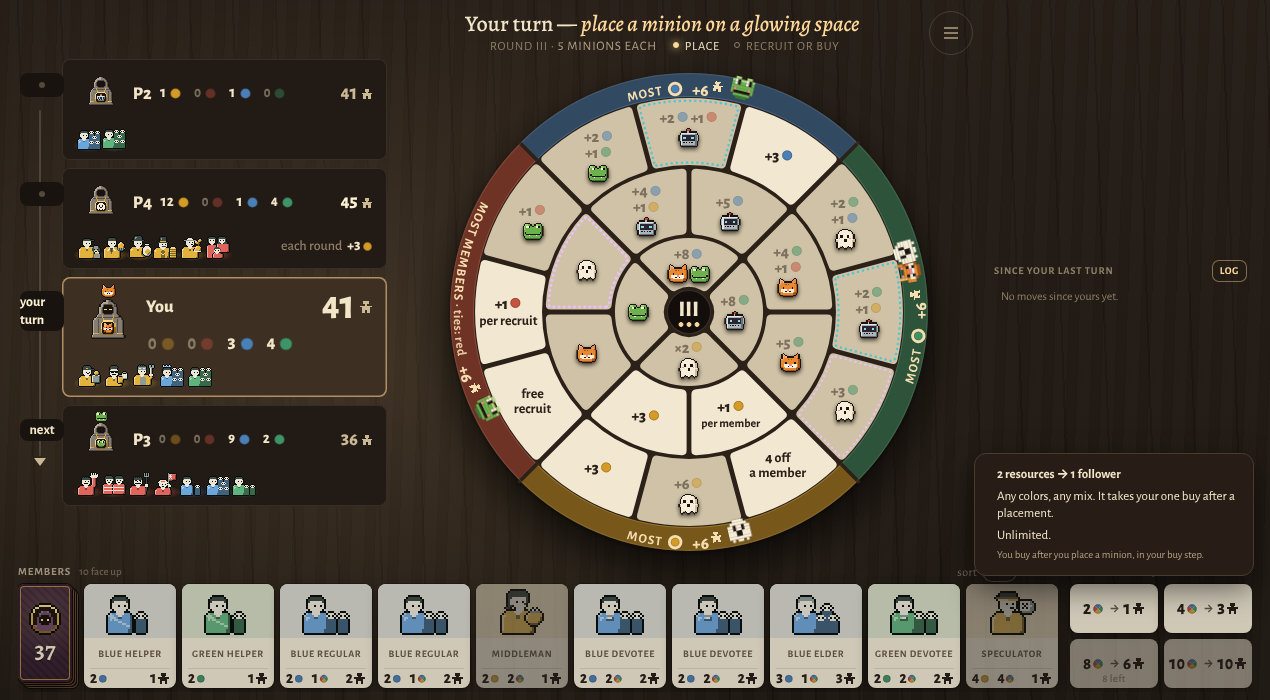
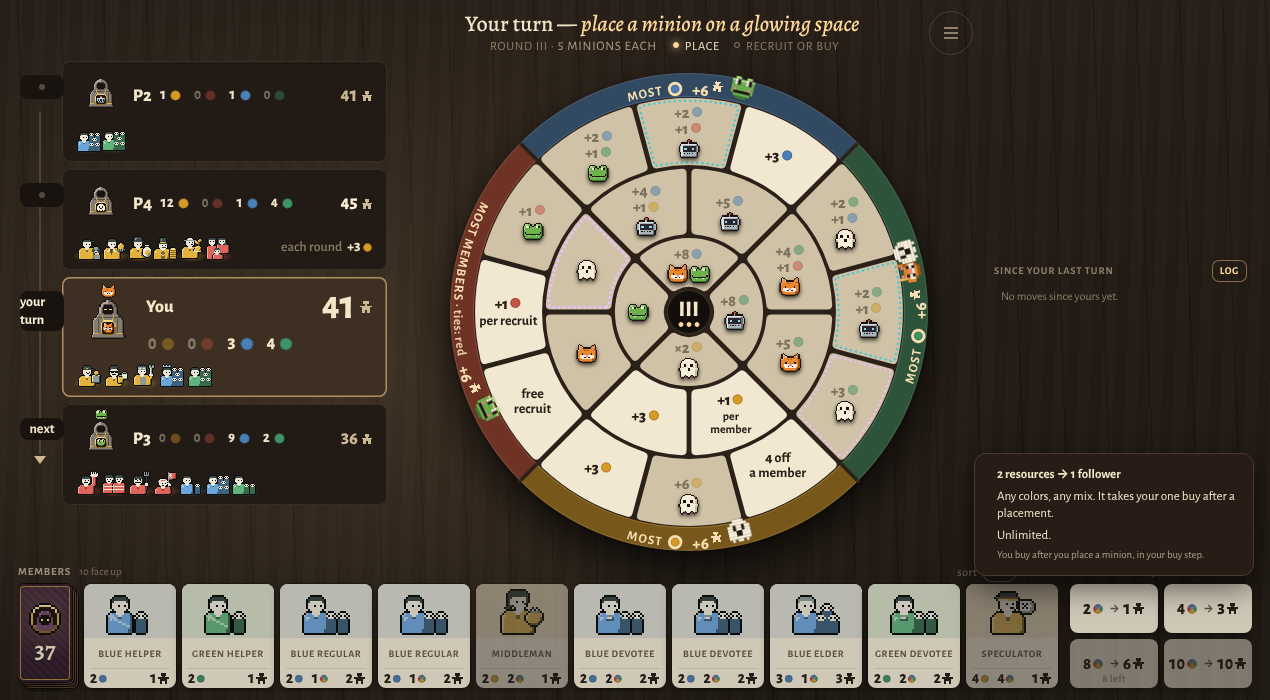
WIP checkpoint: overnight agents in progress
Claude-Session: https://claude.ai/code/session_017rw3aQa9iJEjdvvwQLY84z

diff --git a/src/v4/game/Wheel.jsx b/src/v4/game/Wheel.jsx
@@ -208,13 +208,15 @@ function saidEm(text, weight = 700) {
   }
   return w;
 }
-// the three lines, in screen pixels: the gain (at least 16), the effect in words, the quiet clarification
-const PANEL_PX = { main: 18, mainMin: 16, second: 14, secondLine: 15, note: 12, noteLine: 13, minion: 21, gap: 2 };
+// the three lines, in screen pixels: line 1 (a gain's number at least 16; a verb may step down to 14), line 2, line 3
+const PANEL_PX = { main: 18, mainMin: 16, verbMin: 14, second: 14, small: 12, note: 12, minion: 21, gap: 2 };
+const lineH = px => px + 1;
 /**
- * How a panel's lines lay out in the room it has where it sits now: the gain on one line or a clause a line, the
- * effect on one or two lines, the clarification on one, or not at all (both are always in the hover). Returns
- * { mainLines, main (px), secondLines, noteLines, w (board units: the box's width), rc (where it's centred) }.
- * `k` is screen pixels per board unit; `taken`: the minion stands in for the lines under the gain.
+ * How a panel's lines lay out in the room it has where it sits now. Line 1 (the gain, or the verb) and line 2 always
+ * show: line 1 on one line or two, line 2 on up to three lines (four at the small size), each stepping a size down
+ * before it wraps further; line 3 only with room (it's in the hover anyway). Returns { one, oneLines, two, twoLines,
+ * noteLines, w (board units: the box's width), rc (where it's centred) }. `k`: screen pixels per board unit. `taken`:
+ * the minion stands under line 1, in place of the lines below it.
  */
 function panelLayout({ s, R, rot, k, said, taken, need = {} }) {
   const a0 = s.ang - s.half + rot, a1 = s.ang + s.half + rot;
@@ -231,33 +233,32 @@ function panelLayout({ s, R, rot, k, said, taken, need = {} }) {
     return best;
   };
   const X = PANEL_PX;
-  const main = said.main, second = taken ? null : said.second, note = taken ? null : lineText(said.note) || null;
-  const mainClauses = main ? clauses(main) : [];
-  const mainEm = main ? saidEm(main, 800) : 0, clauseEm = main ? Math.max(...mainClauses.map(c => saidEm(c, 800))) : 0;
-  const words = t => Math.max(...String(t).split(/\s+/).map(x => saidEm(x, 700)));
-  const secondEm = second ? saidEm(second, 700) : 0, noteEm = note ? saidEm(note, 500) : 0;
-  // the gain and the effect always show (the effect may wrap to three lines); the clarification only with room
+  const one = said.main || said.verb, isGain = !!said.main;
+  const two = taken ? null : said.second, note = taken ? null : lineText(said.note) || null;
+  const words = t => Math.max(...String(t).split(/\s+/).map(x => saidEm(x, 800)));
+  const oneClauses = isGain ? clauses(one) : null;
+  const oneEm = one ? saidEm(one, 800) : 0, twoEm = two ? saidEm(two, 700) : 0, noteEm = note ? saidEm(note, 500) : 0;
+  // how wide a line set on n lines needs to be: a gain breaks between clauses, words wrap between words
+  const needOne = (px, n) => (!one ? 0 : n === 1 ? oneEm * px : isGain ? Math.max(...oneClauses.map(c => saidEm(c, 800))) * px : Math.max(words(one), (oneEm / n) * 1.15) * px);
+  const needTwo = (px, n) => (!two ? 0 : n === 1 ? twoEm * px : Math.max(words(two) * (700 / 800), (twoEm / n) * 1.15) * px);
+  const oneSizes = !one ? [0] : isGain ? [X.main, X.mainMin] : [X.main, X.mainMin, X.verbMin];
+  const oneLines = !one ? [0] : isGain ? (oneClauses.length > 1 ? [1, 2] : [1]) : [1, 2];
   const tries = [];
-  for (const mp of main ? [X.main, X.mainMin] : [0]) for (const ml of mainClauses.length > 1 ? [1, 2] : main ? [1] : [0])
-    for (const sp of second ? [X.second, X.note] : [0]) for (const sl of second ? [1, 2, 3] : [0]) for (const nl of note && !need.noNote ? [1, 0] : [0]) tries.push({ mp, ml, sp, sl, nl });
-  // prefer the bigger gain, then the effect on at most two lines, at its own size, then the clarification shown
-  tries.sort((x, y) => y.mp - x.mp || (y.sl <= 2) - (x.sl <= 2) || y.sp - x.sp || (y.nl > 0) - (x.nl > 0) || x.ml - y.ml || x.sl - y.sl);
+  for (const op of oneSizes) for (const ol of oneLines) for (const tp of two ? [X.second, X.small] : [0])
+    for (const tl of two ? (tp === X.small ? [1, 2, 3, 4] : [1, 2, 3]) : [0]) for (const nl of note && !need.noNote ? [1, 0] : [0]) tries.push({ op, ol, tp, tl, nl });
+  // prefer: line 1 bigger and whole, line 2 on at most two lines at its own size, then line 3 shown, then fewer lines
+  tries.sort((x, y) => y.op - x.op || (y.tl <= 2) - (x.tl <= 2) || y.tp - x.tp || x.ol - y.ol || (y.nl > 0) - (x.nl > 0) || x.tl - y.tl);
   for (const t of tries) {
-    const parts = [t.ml * t.mp, taken ? X.minion : 0, t.sl * (t.sp === X.second ? X.secondLine : X.noteLine), t.nl * X.noteLine].filter(Boolean);
-    const h = parts.reduce((a, b) => a + b, 0) + X.gap * (parts.length - 1);
-    const needW = Math.max(
-      t.ml ? (t.ml === 1 ? mainEm : clauseEm) * t.mp : 0,
-      t.sl ? Math.max(words(second), (secondEm / t.sl) * 1.12) * t.sp : 0,
-      t.nl ? noteEm * X.note : 0,
-      taken ? 24 : 0,
-    );
+    const parts = [t.ol * lineH(t.op), taken ? X.minion : 0, t.tl * lineH(t.tp), t.nl * lineH(X.note)].filter(Boolean);
+    const h = parts.reduce((x, y) => x + y, 0) + X.gap * (parts.length - 1);
+    const needW = Math.max(needOne(t.op, t.ol), needTwo(t.tp, t.tl), t.nl ? noteEm * X.note : 0, taken ? 24 : 0);
     const w = room(h) * k;
-    if (w >= needW + 4) return { mainLines: t.ml, main: t.mp, secondLines: t.sl, second: t.sp, noteLines: t.nl, w: w / k, rc };
+    if (w >= needW + 4) return { one: t.op, oneLines: t.ol, two: t.tp, twoLines: t.tl, noteLines: t.nl, w: w / k, rc };
   }
-  // nothing fits: everything at its smallest, a clause a line (the clarification is in the hover)
-  const ml = mainClauses.length > 1 ? 2 : main ? 1 : 0, sl = second ? 3 : 0;
-  const w = room(ml * X.mainMin + (taken ? X.minion : sl * X.noteLine) + X.gap);
-  return { mainLines: ml, main: X.mainMin, secondLines: sl, second: X.note, noteLines: 0, w: Math.max(w, 24 / k), rc: w ? rc : R.r, tight: true };
+  // nothing fits (never seen on a 1270×700 table): everything at its smallest; the hover has it all
+  const ol = one ? 2 : 0, tl = two ? 4 : 0;
+  const w = room(ol * lineH(X.verbMin) + (taken ? X.minion : tl * lineH(X.small)) + X.gap);
+  return { one: isGain ? X.mainMin : X.verbMin, oneLines: ol, two: X.small, twoLines: tl, noteLines: 0, w: Math.max(w, 24 / k), rc: w ? rc : R.r, tight: true };
 }
 
 // Is the person driving with the keyboard? Focus moved to a space on its own (your turn begins) opens its card only
@@ -822,9 +823,12 @@ function Wheel({ state, legal, pickNotes = null, onPick, onDenied, onTouched, co
       const f = first.get(s.key);
       out.set(s.key, { said: f.said, lay: !group[`${s.q}-${s.ring}`] && f.lay.noteLines ? lay(s, { noNote: true }) : f.lay });
     }
-    // every gain on the wheel is one size: the smallest any panel needs
-    const main = Math.min(...[...out.values()].filter(v => v.said.main).map(v => v.lay.main));
-    for (const v of out.values()) if (v.said.main) v.lay = { ...v.lay, main };
+    // every gain on the wheel is one size, and every verb: the smallest any panel needs
+    for (const kind of ['main', 'verb']) {
+      const all = [...out.values()].filter(v => v.said[kind]);
+      const px = Math.min(...all.map(v => v.lay.one));
+      for (const v of all) v.lay = { ...v.lay, one: px };
+    }
     return out;
   }, [panels, state.quadrants, state.slots, round, rot, scale]); // eslint-disable-line react-hooks/exhaustive-deps
   live.current = { tap, onPick, hover, anchorOf };
@@ -844,7 +848,7 @@ function Wheel({ state, legal, pickNotes = null, onPick, onDenied, onTouched, co
     // panels: the gain, the effect, the clarification, laid out in the room this panel has where it sits now
     const pl = panels ? panelLays.get(key) : null;
     const said = pl && pl.said, lay = pl && pl.lay;
-    const cls = ['slot', `r${t}`, opt ? 'can lit' : '', flash.has(key) ? 'flash' : '', selected ? 'sel' : '', open ? 'open' : 'locked', owner !== undefined ? 'taken' : '', fresh ? 'fresh' : '', fresh && fresh.newest ? 'newest' : '', lay && !said.main ? 'nomain' : '', lay && lay.secondLines > 1 ? 'wrap' : '', lay && lay.second === PANEL_PX.note ? 'small' : ''].filter(Boolean).join(' ');
+    const cls = ['slot', `r${t}`, opt ? 'can lit' : '', flash.has(key) ? 'flash' : '', selected ? 'sel' : '', open ? 'open' : 'locked', owner !== undefined ? 'taken' : '', fresh ? 'fresh' : '', fresh && fresh.newest ? 'newest' : '', lay && said.verb ? 'verb' : '', lay && lay.oneLines > 1 ? 'wrap1' : '', lay && lay.twoLines > 1 ? 'wrap' : '', lay && lay.two === PANEL_PX.small ? 'small' : ''].filter(Boolean).join(' ');
     const status = owner !== undefined ? `Taken by ${owner === meId ? 'you' : state.players[owner].name}${joiners.length ? ` and ${joiners.map(id => state.players[id].name).join(', ')}` : ''}${opt && String(opt).startsWith('squat:') ? ' (you can join it)' : ''}` : open ? (opt ? 'Open: you can take it' : 'Open') : `Opens in round ${roman(t)}`;
     const minion = id => (
       <span key={id} className="worker" data-seat={id}>
@@ -853,7 +857,7 @@ function Wheel({ state, legal, pickNotes = null, onPick, onDenied, onTouched, co
     );
     const minions = owner !== undefined ? <span className="worker-fig" data-seat={owner}>{[owner, ...joiners].map(minion)}</span> : null;
     let style = { ...at(X, Y), '--c': `var(--${qid})` };
-    if (panels) style = { ...style, ...at(...turned(...polar(s.ang, lay.rc))), width: `${((lay.w / VBS) * 100).toFixed(2)}%`, '--main': `${lay.main || PANEL_PX.main}px` };
+    if (panels) style = { ...style, ...at(...turned(...polar(s.ang, lay.rc))), width: `${((lay.w / VBS) * 100).toFixed(2)}%`, '--one': `${lay.one || PANEL_PX.main}px` };
     // a face from ./faces/: the box is the face's own size (board units), and the face draws everything inside it
     let face = null;
     if (custom) {
@@ -885,13 +889,13 @@ function Wheel({ state, legal, pickNotes = null, onPick, onDenied, onTouched, co
           // three lines at most, no picture (Cory, 2026-10-15): the gain, the effect in words, a quiet clarification.
           // Taken: the minion stands under the gain, in place of the lines below it
           <span className="face" aria-hidden="true">
-            {lay.mainLines > 0 && (
-              <span className="yl main" data-yield>
-                {lay.mainLines > 1 ? clauses(said.main).map((c, k) => <span key={k} className="cl"><Said text={c} /></span>) : <Said text={said.main} />}
+            {lay.oneLines > 0 && (
+              <span className={`yl main${said.verb ? ' verb' : ''}`} data-yield>
+                {said.main && lay.oneLines > 1 ? clauses(said.main).map((c, k) => <span key={k} className="cl"><Said text={c} /></span>) : <Said text={said.main || said.verb} />}
               </span>
             )}
             {minions}
-            {!minions && lay.secondLines > 0 && <span className="yl second" data-second><Said text={said.second} /></span>}
+            {!minions && lay.twoLines > 0 && <span className="yl second" data-second><Said text={said.second} /></span>}
             {!minions && lay.noteLines > 0 && (
               <span className="note" data-note>
                 {typeof said.note === 'object'

diff --git a/src/v4/game/MemberUse.jsx b/src/v4/game/MemberUse.jsx
@@ -1,0 +1,89 @@
+// Using members, made obvious (Cory, 2026-10-15: "I still don't know how to activate a member / the UI for it"), and a
+// player's members as one calm list (the seat card). A member you can use now is lit in your seat; its hover and its
+// row in the seat card carry the same "Use: +7 ●" button; once used it reads "used" everywhere. Switches (Midas,
+// Translator) are a small on/off switch. Everything here is read off the engine (memberUse.js).
+import { Sprite } from '../art/Sprite.jsx';
+import { spriteId } from '../art/index.js';
+import { quadrant } from '../../engine/v4/index.js';
+import { CardText, onTable } from './Info.jsx';
+import { Rich } from './Rich.jsx';
+import { memberRows, useNow } from './memberUse.js';
+import './members.css';
+
+const sphereOf = (state, d) => { if (!onTable(state, d)) return 'colorless'; try { return quadrant(d.quadrant).resource; } catch { return 'colorless'; } };
+
+/** "Use: +7 ●": the one button that uses a member. big: the primary button of a member's hover. */
+export function UseButton({ use, uid, name, onPick, big = false }) {
+  if (!use || use.blocked) return null;
+  return (
+    <button type="button" className={`mu-use${big ? ' big' : ''}`} data-use={uid} data-option={use.option} title={`Use ${name} now${use.words ? `: ${use.words}` : ''}`}
+      onClick={e => { e.stopPropagation(); onPick(use.option, e.currentTarget); }}>
+      <Rich text={use.label} />
+    </button>
+  );
+}
+
+/** A member's on/off switch: a button in your buy step (it flips it), else its state alone. */
+export function MemberSwitch({ name, on, option = null, onPick = null }) {
+  const say = `${name} is ${on ? 'on' : 'off'}.${option ? ` Click to switch it ${on ? 'off' : 'on'}.` : ' You can switch it when you buy.'}`;
+  const face = <><i className="mu-track" aria-hidden="true"><i className="mu-knob" /></i><span className="mu-sw-word">{on ? 'on' : 'off'}</span></>;
+  return option && onPick
+    ? <button type="button" role="switch" aria-checked={on} className={`mu-switch${on ? ' on' : ''}`} data-switch={on ? 'on' : 'off'} data-option={option.id} title={say} aria-label={say}
+        onClick={e => { e.stopPropagation(); onPick(option.id, e.currentTarget); }}>{face}</button>
+    : <span className={`mu-switch idle${on ? ' on' : ''}`} data-switch={on ? 'on' : 'off'} title={say} aria-label={say} role="img">{face}</span>;
+}
+
+const stateOf = row => (row.toggle ? (row.toggle.on ? 'on' : 'off') : row.used ? 'used' : row.tag && row.tag.tone === 'lit' ? 'ready' : row.use && row.use.blocked ? 'blocked' : row.kind === 'use' ? 'unused' : '');
+
+/**
+ * The seat card's body (Cory, 2026-10-15): the player's members, one row each: picture, name, the ability as one
+ * plain sentence (never cut), and a quiet state where one applies. Use-once members come first, then what pays at
+ * round start, what reacts, the standing rules, and the game-end scorers.
+ */
+export function SeatMembers({ state, pid, me = null, optionFor = () => null, onPick = null }) {
+  const rows = memberRows(state, pid, me, optionFor);
+  if (!rows.length) return <p className="mu-none">No members yet.</p>;
+  return (
+    <ul className="mu-list" data-member-list={pid}>
+      {rows.map((row, k) => {
+        const st = stateOf(row);
+        const brk = k > 0 && rows[k - 1].kind !== row.kind;
+        return (
+          <li key={row.key} className={`mu-row k-${row.kind}${st ? ` s-${st}` : ''}${brk ? ' brk' : ''}`} data-member-row={row.def.id} data-state={st || undefined}>
+            <span className="mu-art" aria-hidden="true"><Sprite id={[row.def.id, spriteId(row.name)]} kind="member" sphere={sphereOf(state, row.def)} size={24} /></span>
+            <span className="mu-body">
+              <span className="mu-head">
+                <b className="mu-name">{row.name}{row.n > 1 ? <span className="num"> ×{row.n}</span> : null}</b>
+                {row.toggle ? <MemberSwitch name={row.name} on={row.toggle.on} option={row.toggle.option} onPick={onPick} />
+                  : row.tag ? <span className={`mu-tag ${row.tag.tone}`} title={row.tag.title || undefined}>{row.tag.text}</span> : null}
+              </span>
+              <span className="mu-text" data-ability>{row.text ? <CardText text={row.text} /> : 'No effect.'}</span>
+              {onPick && row.use && !row.use.blocked ? <UseButton use={row.use} uid={row.uid} name={row.name} onPick={onPick} /> : null}
+            </span>
+          </li>
+        );
+      })}
+    </ul>
+  );
+}
+
+/**
+ * Under a member's card when it's one of yours: "Use: +7 ●" when you can use it now, why not when the engine says
+ * no, and its switch. Nothing for anyone else's member (the card itself says "used").
+ */
+export function MemberActions({ state, uid, me = null, optionFor = () => null, onPick = null }) {
+  const owner = state.players.find(p => p.members.includes(uid));
+  if (!owner || owner.id !== me || !state.cards[uid]) return null;
+  const c = state.cards[uid];
+  const row = memberRows(state, me, me, optionFor).find(r => r.uids.includes(uid));
+  if (!row) return null;
+  const use = row.kind === 'use' && !c.used ? useNow(state, me, uid) : null;
+  if (!use && !row.toggle) return null;
+  return (
+    <div className="mu-actions" data-member-actions={uid}>
+      {row.toggle ? <span className="mu-sw-line"><span>{row.name} is {row.toggle.on ? 'on' : 'off'}</span><MemberSwitch name={row.name} on={row.toggle.on} option={row.toggle.option} onPick={onPick} /></span> : null}
+      {use && use.blocked ? <small className="mu-why">Can’t use it now: {use.why || 'nothing would happen'}.</small> : null}
+      {use && !use.blocked && onPick ? <UseButton use={use} uid={uid} name={row.name} onPick={onPick} big /> : null}
+    </div>
+  );
+}

diff --git a/design/eval/design-pod/queue.md b/design/eval/design-pod/queue.md
@@ -1,0 +1,12 @@
+# Design pod queue
+
+The art director (port 5410) owns screen composition and layout. The detail designer (port 5412) owns the details: clipping, leftover symbols, names, hovers, glows, alignment, type sizes, placeholder text, chip selectors. Write what you're taking before you start; tick it when it lands. Restructures that one of us can't do go to the other, or to the foreman.
+
+## Detail designer: taking
+- [ ] 04:55 First sweep on Classic, a random four, and magenta/silver/yellow/purple tables (every state, every hover). Findings land in details.md.
+
+## Art director: taking
+
+## For the art director (composition / layout)
+
+## For the foreman (needs a call or another agent's files)
